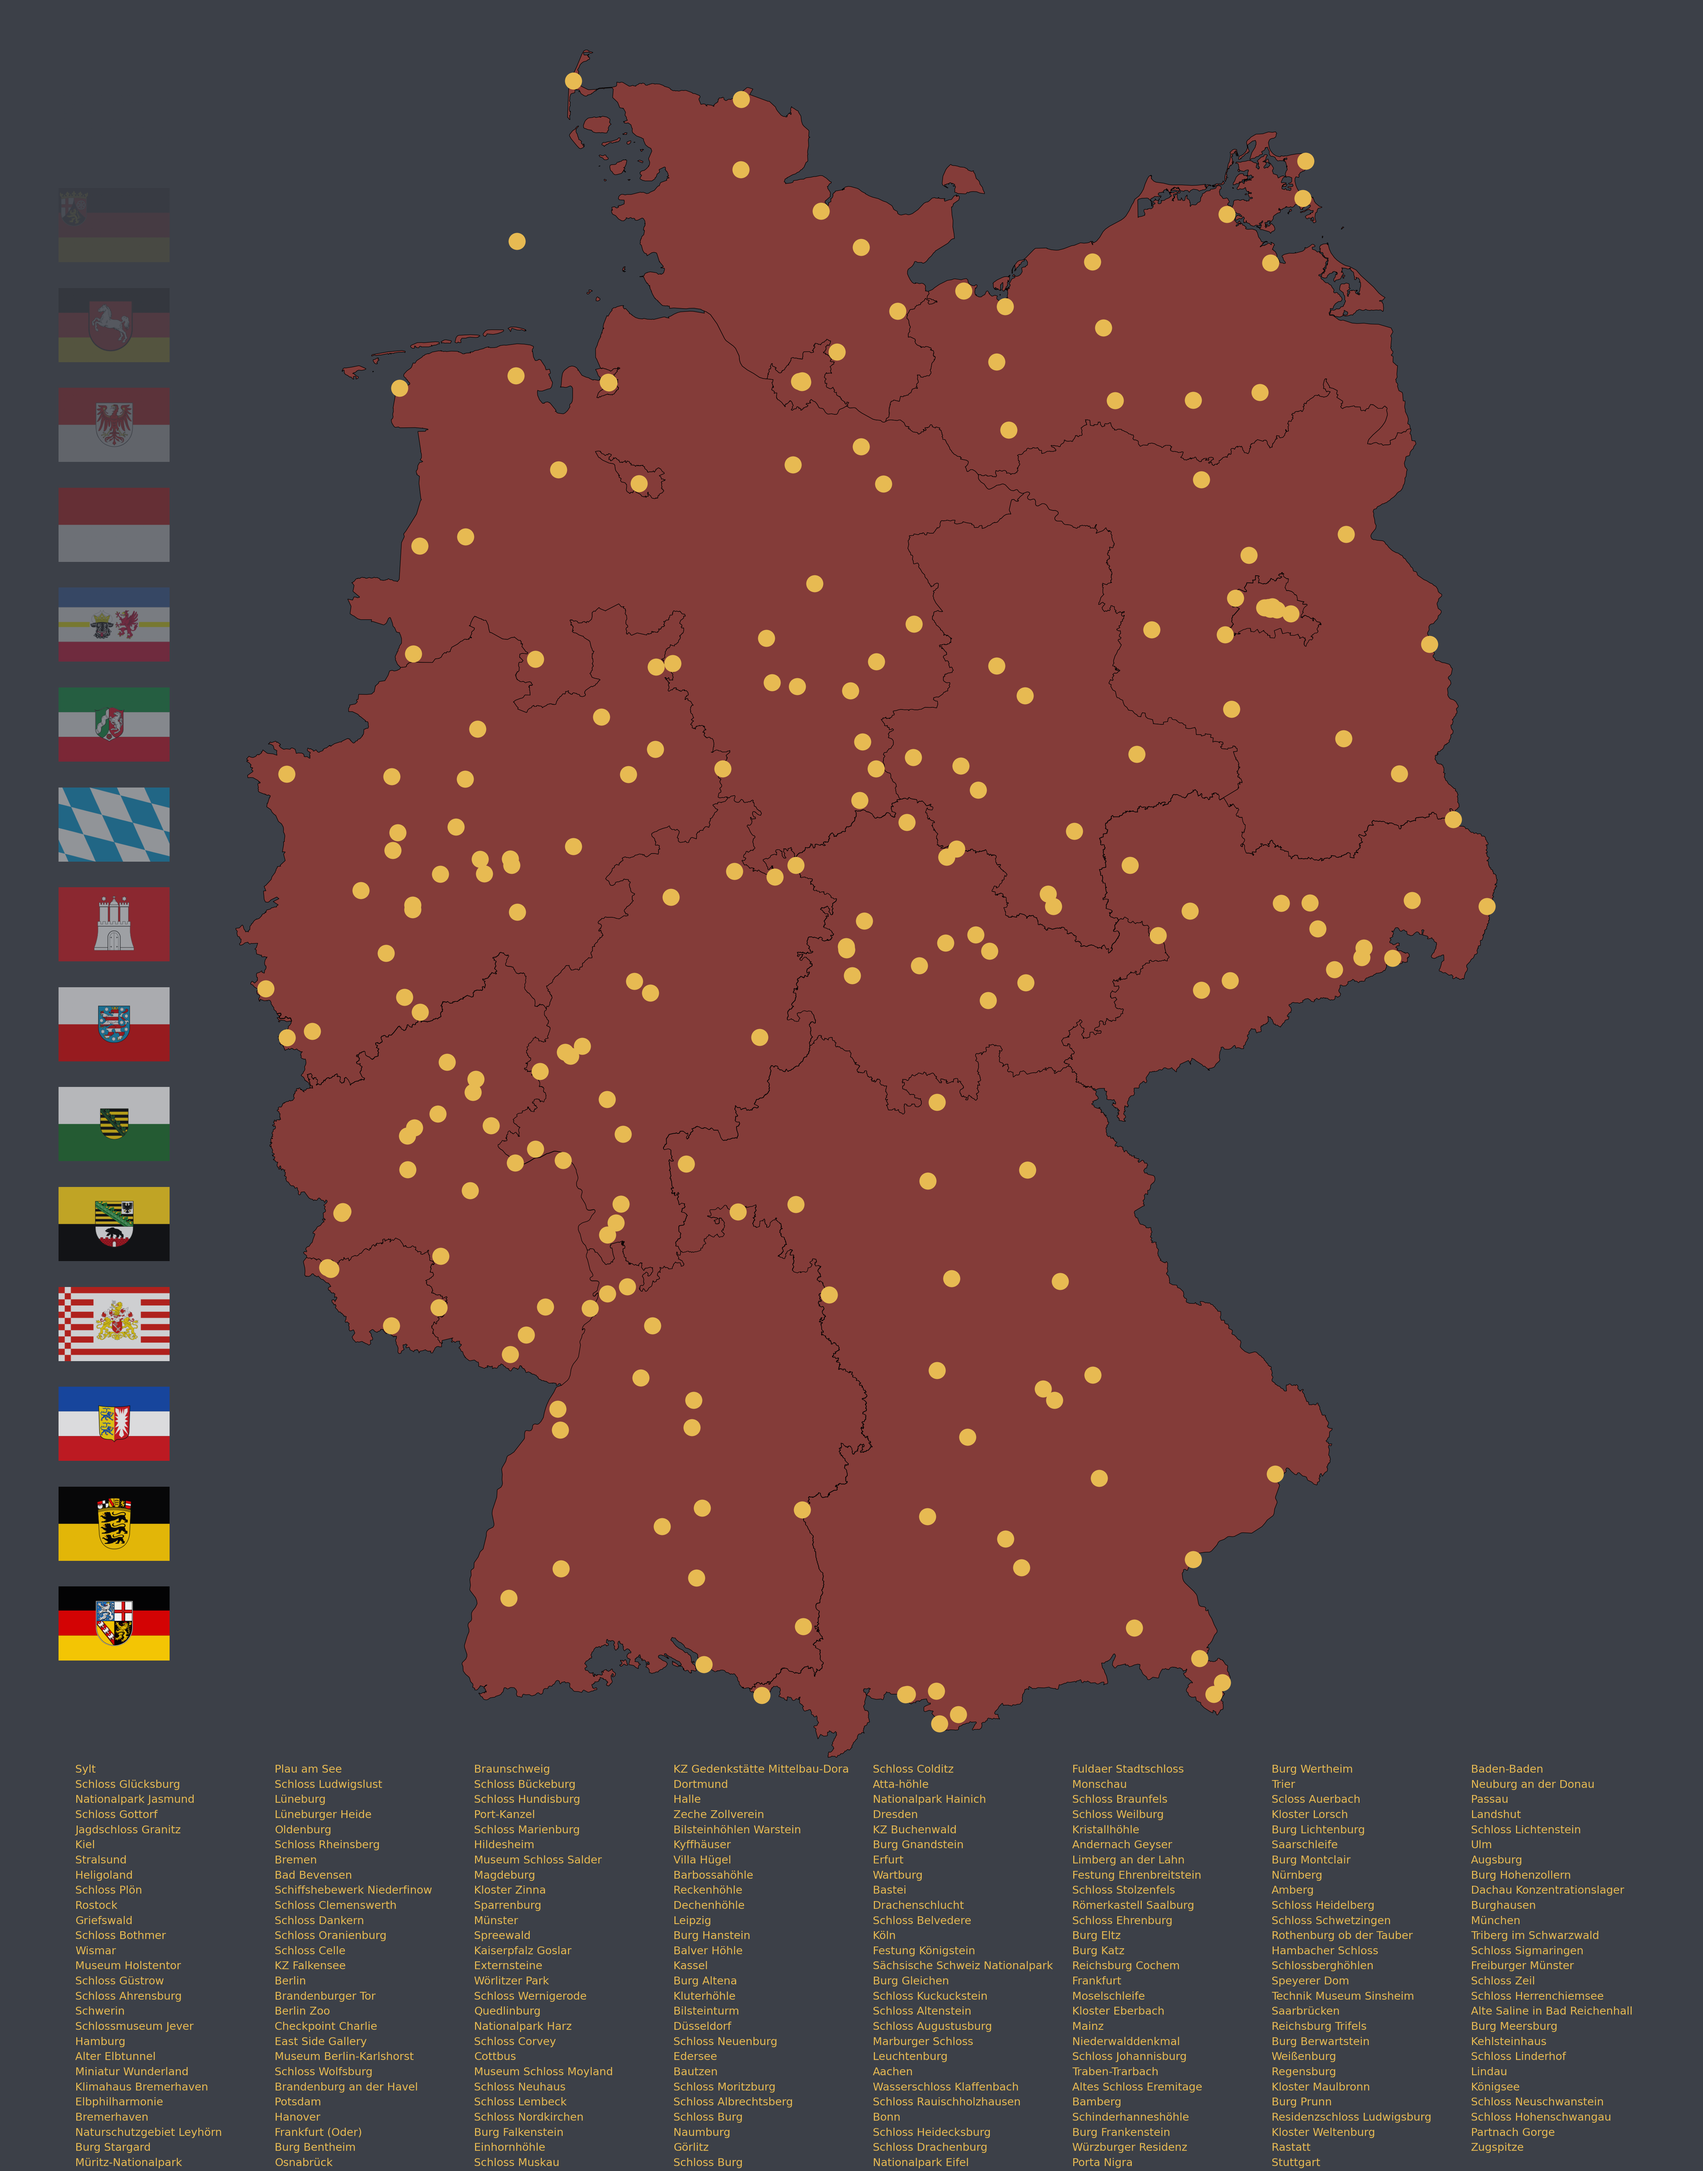
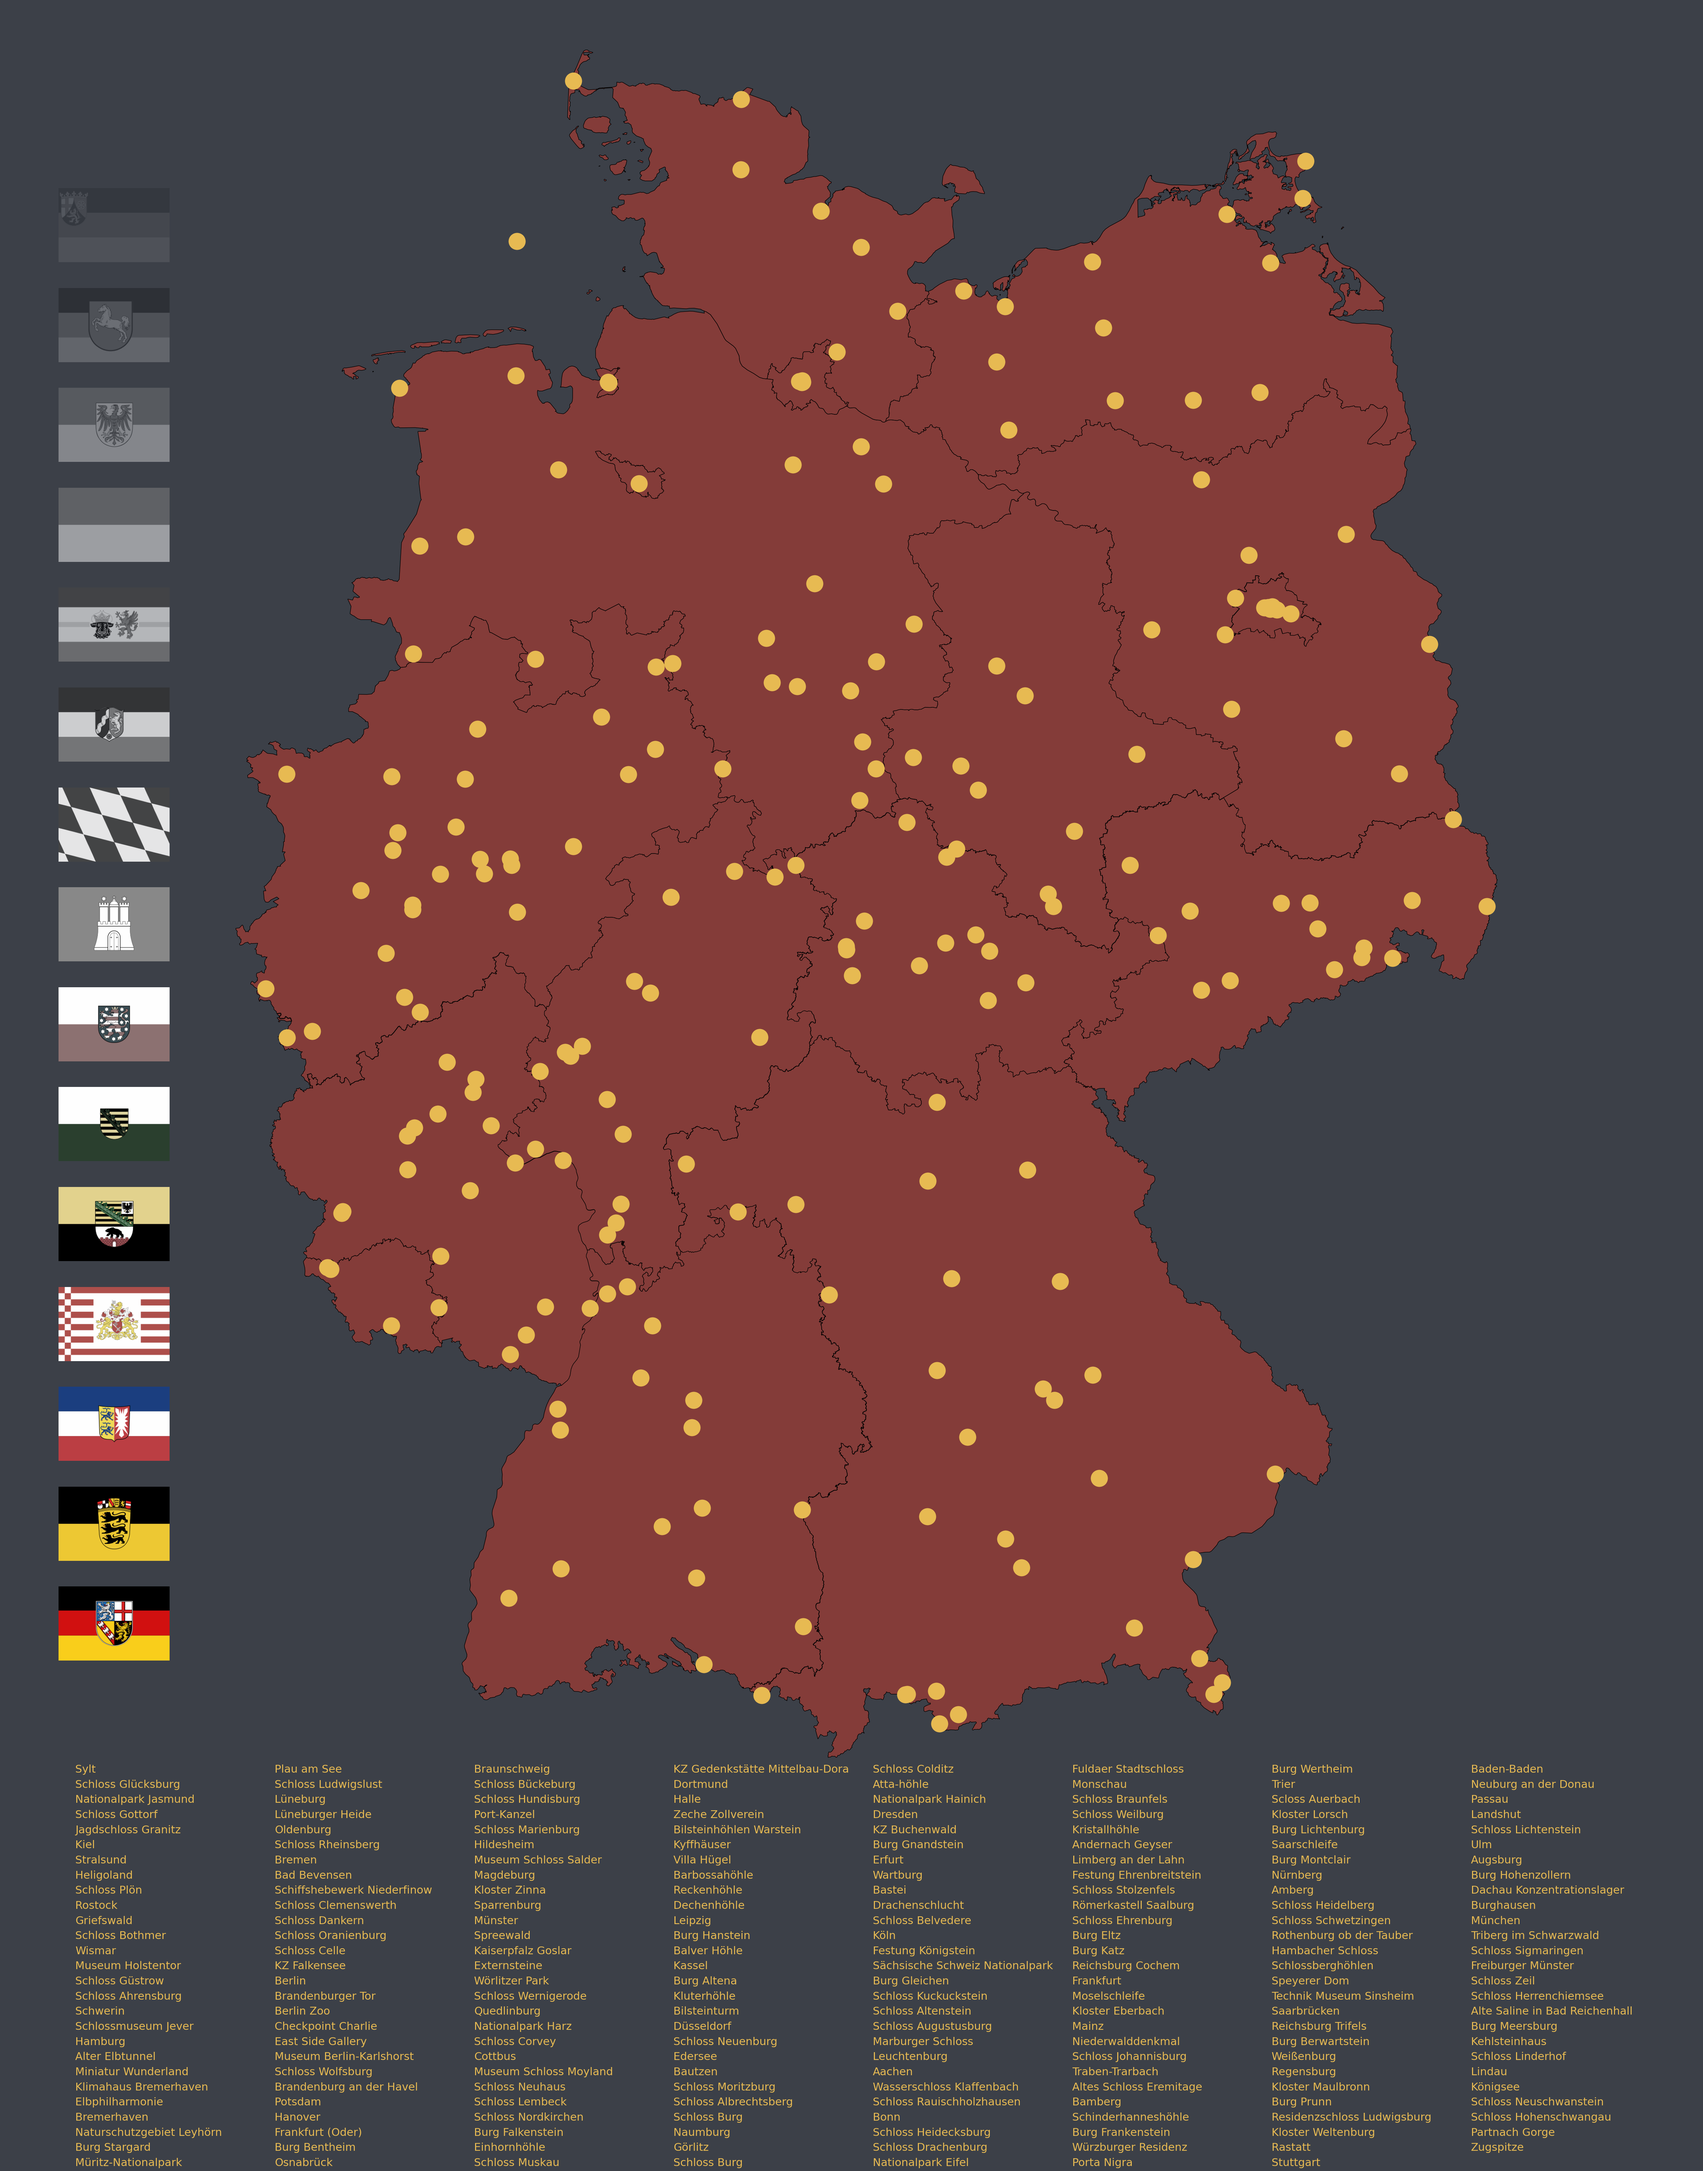
update flag plotting to include coloration AND fade

Changed region(s): [[0.0312, 0.156, 0.125, 0.7178]]

diff --git a/plotting/plotting_manager.py b/plotting/plotting_manager.py
@@ -107,38 +107,55 @@ class PlotManager:
         png_files = [f for f in os.listdir(f"{self.path}/submaps") if f.lower().endswith(".png")]
         for i, file in enumerate(png_files):
             #print(file)
+
+            # Create image
+            if i/len(png_files) > 0.5:
+                beta = i/len(png_files)*2 - 1
+            else:
+                beta = 0
             img = mpimg.imread(f"./de/submaps/{file}")
             if img.shape[-1] == 3:
                 img = np.dstack([img, np.ones(img.shape[:2])])
+            img[:,:,3] = img[:,:,3]*beta
 
-            #gray = np.dot(img[...,:3], [0.587, 0.299, 0.114])
-            #gray_rgb = np.stack((gray, gray, gray), axis=-1)
+            # Create grayscale image
+            if i/len(png_files) > 0.5:
+                alpha = 1
+            else:
+                alpha = i/len(png_files)*2
+            gray = np.dot(img[...,:3], [0.587, 0.299, 0.114])
+            gray_rgb = np.stack((gray, gray, gray), axis=-1)
+            if gray_rgb.shape[-1] == 3:
+                print(img.shape)
+                print(img.shape[:2])
+                gray_rgb = np.dstack([gray_rgb, np.ones(gray_rgb.shape[:2])*alpha])
+            
+            # Create gray mask
+            gray_mask = np.ones((img.shape[0], img.shape[1],3))
+            gray_mask[:,:,0] = gray_mask[:,:,0]*60/255
+            gray_mask[:,:,1] = gray_mask[:,:,1]*64/255
+            gray_mask[:,:,2] = gray_mask[:,:,2]*72/255
 
-            gray_rgb = np.ones((img.shape[0], img.shape[1],3))
-            gray_rgb[:,:,0] = gray_rgb[:,:,0]*60/255
-            gray_rgb[:,:,1] = gray_rgb[:,:,1]*64/255
-            gray_rgb[:,:,2] = gray_rgb[:,:,2]*72/255
-
-            alpha = 1 - i/len(png_files)
-            #if gray_rgb.shape[-1] == 3:
-            #    gray_rgb = np.dstack([gray_rgb, np.ones(gray_rgb.shape[:2])*alpha])
-            gray_rgb = np.dstack([gray_rgb, np.ones(gray_rgb.shape[:2])*alpha])
-            print(gray_rgb.shape)
+            mask_level = 1.0 - i/len(png_files)
+            gray_mask = np.dstack([gray_mask, np.ones(gray_mask.shape[:2])*mask_level])
 
             img_position = (-0.075, 0.94 - i/len(png_files)*0.9)
 
-            imagebox = OffsetImage(img, zoom=0.75)  # adjust size with zoom
-            imagebox_img = AnnotationBbox(imagebox, img_position, frameon=False, xycoords='axes fraction')
+            imagebox_gry = AnnotationBbox(
+                OffsetImage(gray_rgb, zoom=0.75), 
+                img_position, 
+                frameon=False, 
+                xycoords='axes fraction'
+            )
+            ax.add_artist(imagebox_gry)
+
+            imagebox_img = AnnotationBbox(
+                OffsetImage(img, zoom=0.75), 
+                img_position, 
+                frameon=False, 
+                xycoords='axes fraction'
+            )
             ax.add_artist(imagebox_img)
-
-            imagebox = OffsetImage(gray_rgb, zoom=0.75)  # adjust size with zoom
-            ab = AnnotationBbox(imagebox, img_position, frameon=False, xycoords='axes fraction')
-            ax.add_artist(ab)
-
-            #imagebox = OffsetImage(img, zoom=0.75)  # adjust size with zoom
-            #ac = AnnotationBbox(imagebox, (-0.075, 0.94 - i/len(png_files)*0.9), frameon=False, xycoords='axes fraction')
-            #ax.add_artist(ac)
-
 
     def _finalize_and_save_plot(self, fig, current_date):
         plt.xlim(self.xlims)
